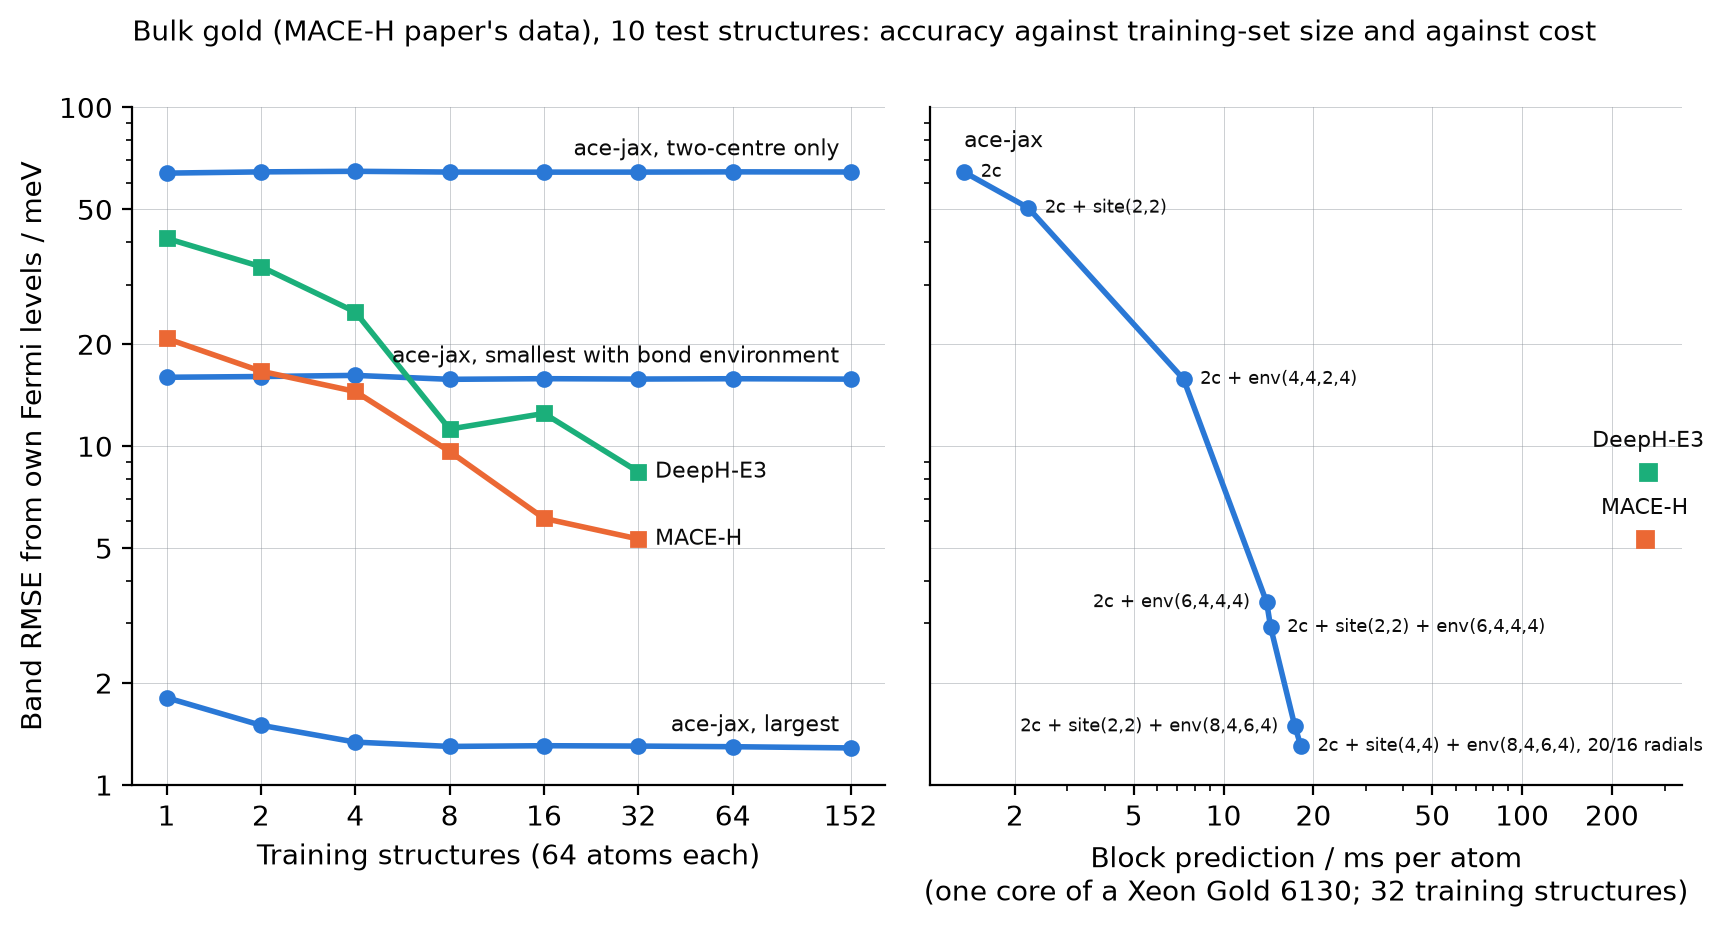
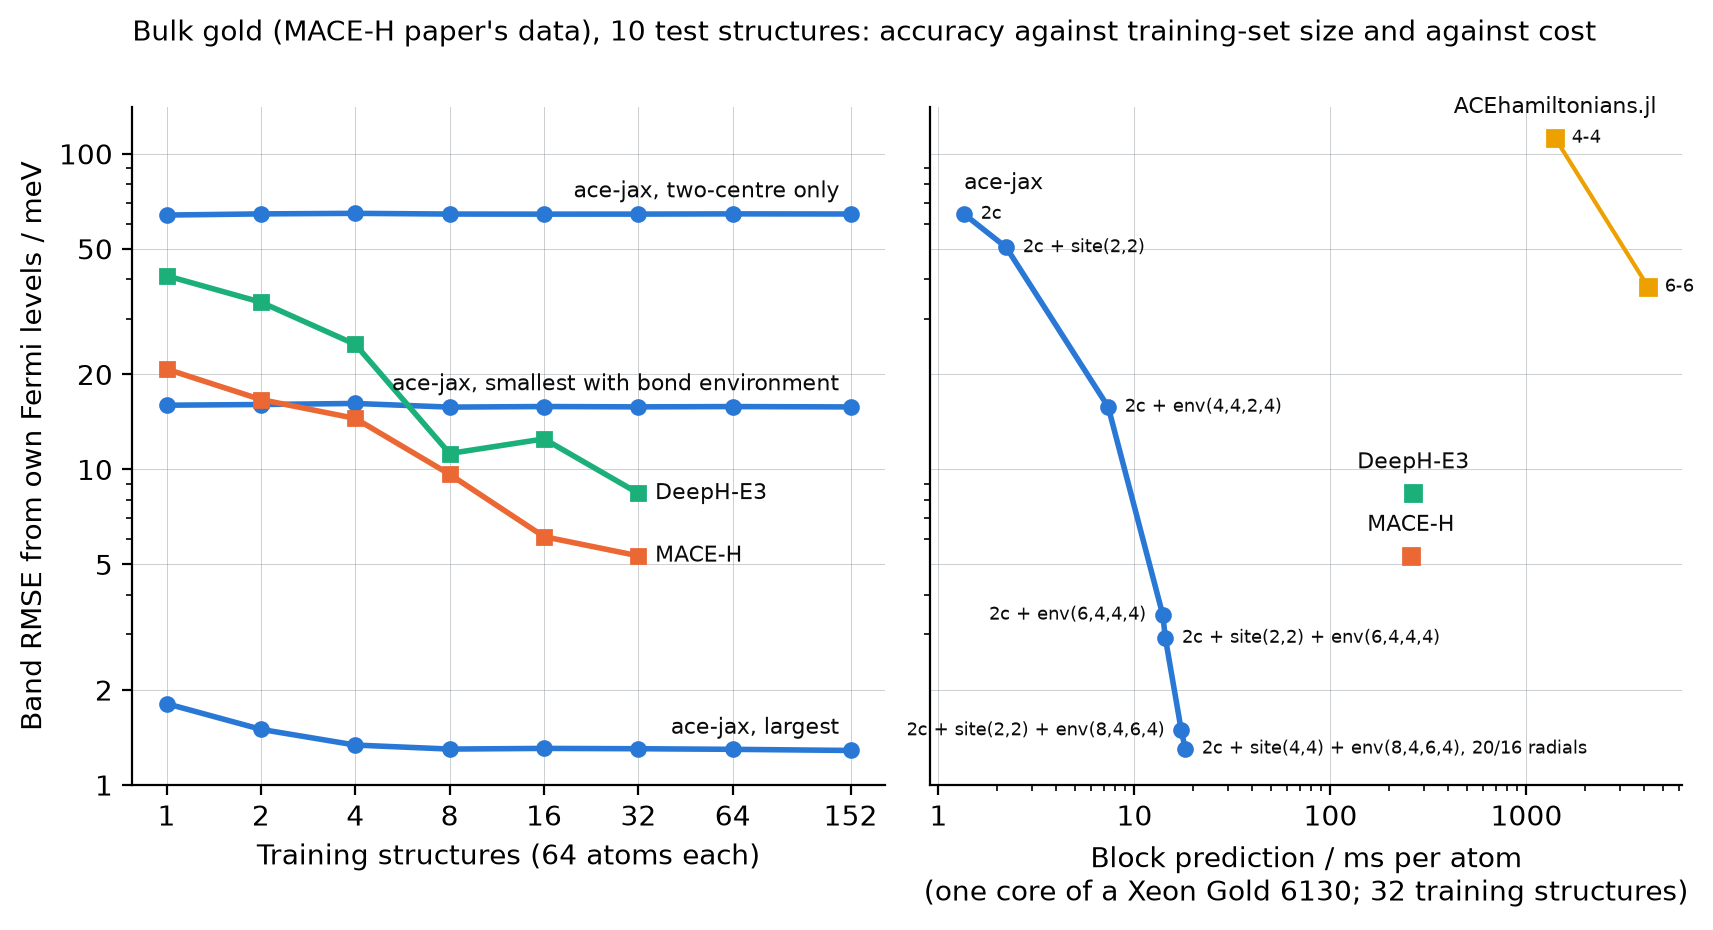
bench(ham): ACEhamiltonians.jl on the gold Pareto figure (degrees 4 and 6)

diff --git a/bench/ham/gold_pareto.py b/bench/ham/gold_pareto.py
@@ -79,7 +79,8 @@ from matplotlib.ticker import FuncFormatter, NullFormatter
 a.set_yticks([1, 2, 5, 10, 20, 50, 100]); a.yaxis.set_major_formatter(FuncFormatter(lambda v, _: f"{v:g}")); a.yaxis.set_minor_formatter(NullFormatter())
 b.xaxis.set_major_formatter(FuncFormatter(lambda v, _: f"{v:g}"))
 lo_x, hi_x = b.get_xlim()
-b.set_xticks([v for v in (0.1, 0.2, 0.5, 1, 2, 5, 10, 20, 50, 100, 200, 500, 1000) if lo_x <= v <= hi_x]); b.xaxis.set_minor_formatter(NullFormatter())
+ticks = (0.1, 1, 10, 100, 1000, 10000, 100000) if hi_x / lo_x > 500 else (0.1, 0.2, 0.5, 1, 2, 5, 10, 20, 50, 100, 200, 500, 1000)
+b.set_xticks([v for v in ticks if lo_x <= v <= hi_x]); b.xaxis.set_minor_formatter(NullFormatter())
 lo, hi = a.get_ylim(); a.set_ylim(max(lo, 0.5), hi)
 for ax in (a, b):
     ax.grid(True, which="major", color=MUTED, lw=0.3, alpha=0.5)
